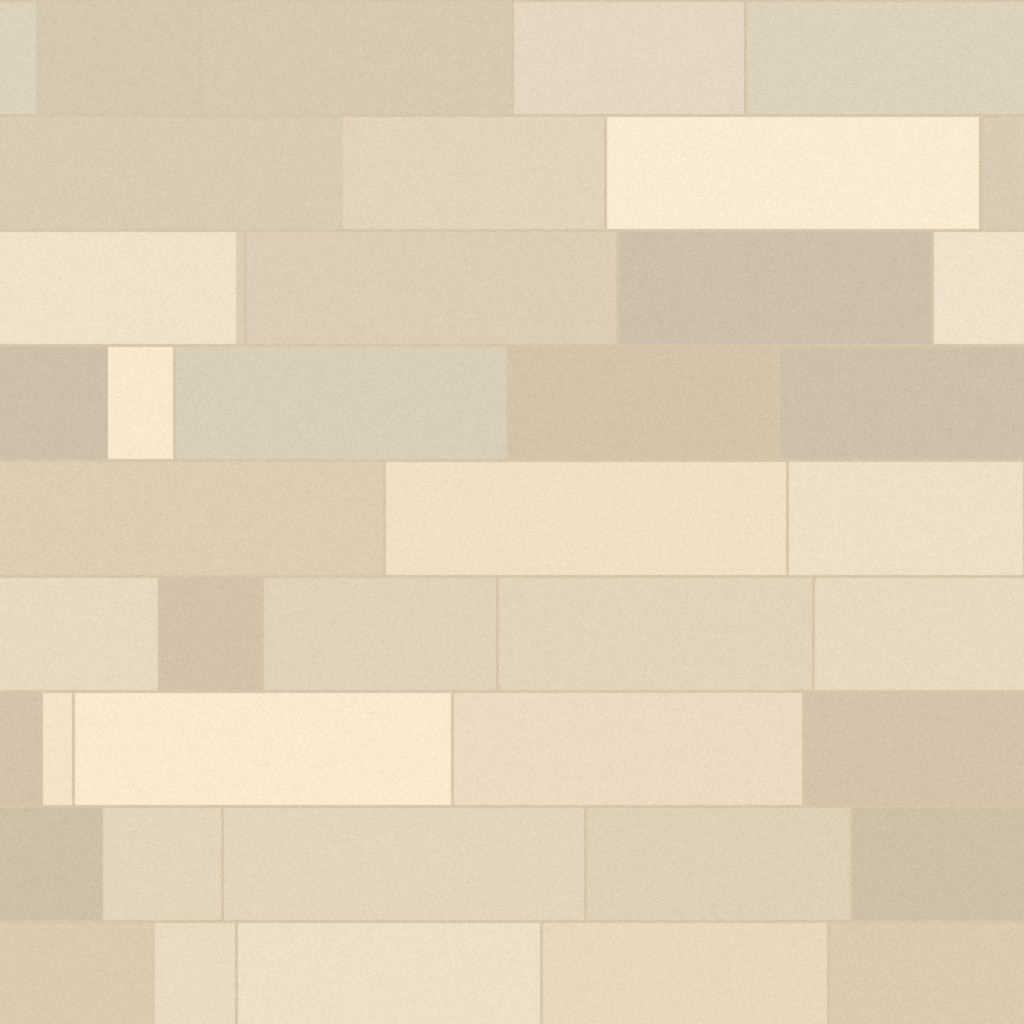
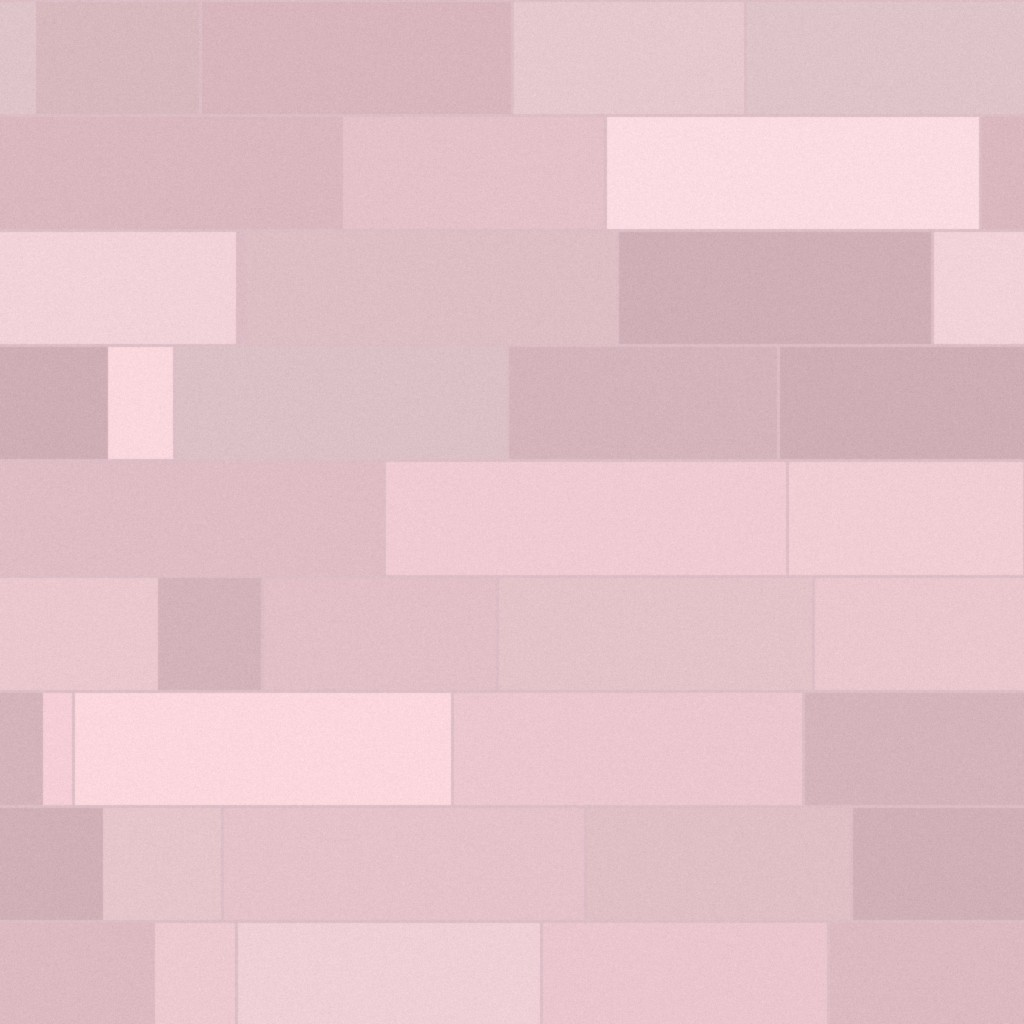
Cinderella Castle: rework to the reference model the user chose
Following the free3d preview renders (looked at only): light grey stone base,
pink upper castle, bright blue slate, gold; the crown of gothic gables round
the palace; rounded corbel turrets, red doors and a quatrefoil at the back;
the rear bridge with pierced balustrades and gold lamps; the front stage with
pilasters, dark double doors, gilded arches and pennant poles; the rocky
island in the moat.

diff --git a/ds_tdl_cinderella.py b/ds_tdl_cinderella.py
@@ -15,6 +15,15 @@ Sources (looked at only; nothing copied into the repository):
   * OSM way 217727348 (building, height 51): the footprint about 36 x 37 m with round tower lobes, the gate notch on
     the south side at (-388.6, 578.2).
 
+  * THE REFERENCE (the user, 2026-09-25: "this image is correct"): the preview renders of the free3d model
+    "Cinderella Castle" by 3d_molier International (https://free3d.com/ja/3d-model/cinderella-castle-6339.html,
+    31 previews; paid model, not downloaded, previews looked at only). Taken from it: the colours (light grey
+    stone base, pale pink upper castle, bright blue slate, gold spires and finials), the crown of tall gothic gables
+    with pinnacles round the palace, the rounded corbel turrets along the top of the stone base, the red arched doors
+    and quatrefoil window at the back, the rear bridge with its pierced balustrade and gold lamps, the front stage
+    (retaining wall with pilasters and dark double doors, gold arches, tall gold banner poles with blue and gold
+    pennants), the island edged with rocks and grass in the moat.
+
 Frame: local metres, origin = the middle of the gate at the ground on the south front; +X east, +Y north (through
 the castle). No rotation from the DisneySea frame. Ground 0 (DEM added on export).
 
@@ -73,16 +82,16 @@ def make_textures():
         a = (a + rng.normal(0, rough, (N, N, 1))).clip(0, 255).astype(np.uint8)
         Image.fromarray(a).filter(ImageFilter.GaussianBlur(0.6)).save(TEX_DIR / fn, quality=90)
 
-    ashlar("stone.jpg", 0.5, (0.6, 1.3), [(138, 118, 98), (128, 110, 92), (148, 128, 106), (120, 104, 88), (160, 140, 118),
-                                         (132, 114, 96), (112, 98, 84)], (176, 162, 144), 7.0, 3)
-    ashlar("cream.jpg", 0.45, (0.9, 1.6), [(236, 222, 196), (230, 214, 186), (240, 228, 204), (226, 212, 188)], (214, 198, 170), 4.0, 4)
+    ashlar("stone.jpg", 0.5, (0.6, 1.3), [(178, 180, 186), (166, 168, 176), (190, 192, 198), (156, 158, 166), (200, 200, 206),
+                                         (170, 172, 178), (148, 150, 158)], (214, 214, 218), 6.0, 3)
+    ashlar("cream.jpg", 0.45, (0.9, 1.6), [(238, 204, 210), (232, 196, 204), (242, 212, 218), (228, 192, 200)], (222, 190, 198), 3.0, 4)
     im = Image.new("RGB", (N, N), (30, 44, 74)); d = ImageDraw.Draw(im)
     tw, th = 0.22 * px, 0.17 * px
     for r in range(int(N / th) + 2):
         off = (r % 2) * tw / 2
         for c in range(int(N / tw) + 2):
             x0 = c * tw - off; y0 = r * th
-            base = [(72, 98, 150), (64, 90, 140), (80, 108, 160), (58, 82, 130), (88, 116, 164)][g.randrange(5)]
+            base = [(46, 104, 170), (40, 94, 160), (54, 114, 180), (36, 86, 150), (62, 122, 186)][g.randrange(5)]
             d.rounded_rectangle([x0 + 1, y0 + 1, x0 + tw - 1, y0 + th * 1.35], radius=tw * 0.45, fill=base)
     im.save(TEX_DIR / "slate.jpg", quality=90)
 
@@ -104,12 +113,12 @@ def materials():
     P = lambda n, c, r=0.6, **kw: _principled(n, c, r, **kw)[0]
     if not (TEX_DIR / "stone.jpg").exists():
         make_textures()
-    M["stone"] = image_material("cc_stone", "stone.jpg", 0.9, 0.5, (0.36, 0.31, 0.26))
-    M["cream"] = image_material("cc_cream", "cream.jpg", 0.55, 0.15, (0.85, 0.79, 0.68))
+    M["stone"] = image_material("cc_stone", "stone.jpg", 0.85, 0.5, (0.62, 0.63, 0.66))    # light grey (reference)
+    M["cream"] = image_material("cc_cream", "cream.jpg", 0.55, 0.15, (0.88, 0.74, 0.77))    # pale pink upper castle
     M["lilac"] = M["cream"]                                 # (the shared helpers call the wall material "lilac")
-    M["roof"] = image_material("cc_slate", "slate.jpg", 0.45, 0.4, (0.22, 0.31, 0.50))
+    M["roof"] = image_material("cc_slate", "slate.jpg", 0.4, 0.4, (0.14, 0.36, 0.66))
     mat, nt, b = _principled("cc_trim", (0.93, 0.88, 0.78), 0.5); _mottle(nt, b, (0.93, 0.88, 0.78), 6, 0.93, 0.03); M["trim"] = mat
-    M["gold"] = P("cc_gold", (0.90, 0.70, 0.30), 0.22, Metallic=1.0)
+    M["gold"] = P("cc_gold", (1.0, 0.76, 0.28), 0.18, Metallic=1.0)
     M["glass"] = P("cc_glass", (0.10, 0.16, 0.30), 0.06, Coat_Weight=1.0)
     M["stained"] = P("cc_stained", (0.20, 0.30, 0.55), 0.08, Emission_Color=(0.4, 0.6, 1.0, 1), Emission_Strength=0.12)
     M["iron"] = P("cc_iron", (0.05, 0.05, 0.06), 0.4, Metallic=0.7)
@@ -120,6 +129,11 @@ def materials():
     M["paving"] = ST.mat_tiles("cc_paving", (0.66, 0.56, 0.50), (0.60, 0.50, 0.46), 0.6, (0.48, 0.42, 0.38))
     M["red"] = P("cc_red", (0.62, 0.08, 0.10), 0.6)
     M["statue"] = P("cc_statue", (0.85, 0.82, 0.76), 0.6)
+    M["door_red"] = P("cc_door_red", (0.45, 0.06, 0.08), 0.6)
+    M["door_dark"] = P("cc_door_dark", (0.16, 0.20, 0.22), 0.5, Metallic=0.4)
+    M["banner_a"] = P("cc_banner_a", (0.05, 0.05, 0.40), 0.7)
+    mat, nt, b = _principled("cc_rock", (0.46, 0.44, 0.40), 0.9); _mottle(nt, b, (0.46, 0.44, 0.40), 1.4, 0.6, 0.5); M["rock"] = mat
+    M["grass"] = P("cc_grass", (0.18, 0.32, 0.12), 0.9)
     return M
 
 
@@ -203,6 +217,74 @@ def gable_roof(P, x0, x1, y0, y1, ze, ridge, mat="roof", along="y", thick=0.2, e
         bm.faces.new((v[0], v[1], v[2], v[3])); bm.faces.new((v[5], v[4], v[3], v[2]))
 
 
+def crown(P, M, L, z0, bay=2.5, h=5.4, gable=3.2, glass="stained"):
+    """The crown of tall gothic gables (reference): along a face of length L, one tall tracery window per bay under a
+    steep crocketed gable, a slim pinnacle between the bays rising above the gables."""
+    n = max(1, int(L / bay)); b = L / n
+    for k in range(n):
+        u = (k + 0.5) * b
+        BC.window(P, M, u, z0 + 0.6, b * 0.5, h, "pointed", 0.12, glass=glass)
+        cube(P, "trim", M, u - 0.03, u + 0.03, 0.0, 0.08, z0 + 0.6, z0 + h - b * 0.3)        # mullion
+        top = z0 + h + 0.4
+        poly_prism(P, "trim", M, [(u - b / 2 + 0.05, top - 0.3), (u + b / 2 - 0.05, top - 0.3), (u, top + gable)], -0.1, 0.25)
+        poly_prism(P, "cream", M, [(u - b / 2 + 0.35, top - 0.1), (u + b / 2 - 0.35, top - 0.1), (u, top + gable - 0.5)], 0.25, 0.3)
+        lathe(P, "trim", [(0.5, 0), (0.62, 0), (0.62, 0.08), (0.5, 0.08)], 12, M @ T(u, 0.3, top + gable * 0.35) @ R(-math.pi / 2, "X"))
+        pinnacle(P, *(M @ Vector((u, 0.1, top + gable))).xy, top + gable, 0.9, 0.08, "gold")
+        for j in range(4):                                                      # crockets up both edges
+            t = (j + 0.5) / 4
+            for sg in (-1, 1):
+                q = M @ Vector((u + sg * (b / 2 - 0.1) * (1 - t), 0.2, top - 0.3 + (gable + 0.3) * t))
+                lathe(P, "trim", [(0, 0), (0.07, 0), (0, 0.18)], 4, T(q.x, q.y, q.z))
+    for k in range(n + 1):
+        q = M @ Vector((k * b, 0.15, 0.0))
+        cube(P, "trim", Matrix.Translation((q.x, q.y, 0)), -0.14, 0.14, -0.14, 0.14, z0, z0 + h + 1.0)
+        pinnacle(P, q.x, q.y, z0 + h + 1.0, gable + 1.4, 0.16)
+
+
+def corbel_turret(P, x, y, z, r=0.85, h=1.6):
+    """Rounded corbel turret on the wall top (reference): a ribbed cone of corbels, a short drum, a moulded cap."""
+    prof = [(0.0, z - 1.9), (0.12, z - 1.9)]
+    for k in range(1, 7):
+        t = k / 6
+        prof.append((0.12 + (r - 0.12) * math.sin(t * math.pi / 2), z - 1.9 + 1.9 * t))
+    prof += [(r, z + h), (r + 0.12, z + h), (r + 0.12, z + h + 0.25), (0.0, z + h + 0.25)]
+    lathe(P, "trim", prof, 20, T(x, y, 0))
+    for k in range(10):                                                         # the ribs of the corbel cone
+        t = 2 * math.pi * k / 10
+        cube(P, "trim", T(x + (r * 0.6) * math.cos(t), y + (r * 0.6) * math.sin(t), 0), -0.05, 0.05, -0.05, 0.05, z - 1.2, z)
+
+
+def pierced_balustrade(P, M, u0, u1, z, h=1.0, step=0.9):
+    """The castle's balustrade (reference): a solid plinth, a row of round openings (rings), a moulded rail."""
+    cube(P, "trim", M, u0, u1, -0.15, 0.15, z, z + 0.2)
+    cube(P, "trim", M, u0, u1, -0.2, 0.2, z + h - 0.15, z + h)
+    k = u0 + step / 2
+    while k < u1 - 0.2:
+        import train_blender as TBL
+        TBL._torus(P["trim"], (h - 0.4) / 2, 0.05, M @ T(k, 0.0, z + 0.2 + (h - 0.35) / 2) @ R(math.pi / 2, "X"), 12, 4)
+        k += step
+    for k in range(int((u1 - u0) / step) + 1):
+        cube(P, "trim", M, u0 + k * step - 0.06, u0 + k * step + 0.06, -0.12, 0.12, z + 0.2, z + h - 0.15)
+
+
+def gold_lamp(P, x, y, z, s=1.0):
+    """Gold urn lamp on a pedestal (reference): pedestal, scrolled stem, a lantern with a crown top."""
+    lathe(P, "trim", [(0, z), (0.35 * s, z), (0.35 * s, z + 0.9 * s), (0.25 * s, z + 1.0 * s), (0, z + 1.0 * s)], 8, T(x, y, 0))
+    zz = z + 1.0 * s
+    lathe(P, "gold", [(0, zz), (0.2 * s, zz), (0.08 * s, zz + 0.4 * s), (0.25 * s, zz + 0.7 * s), (0.28 * s, zz + 1.1 * s),
+                      (0.1 * s, zz + 1.3 * s), (0.18 * s, zz + 1.45 * s), (0, zz + 1.6 * s)], 8, T(x, y, 0))
+
+
+def pennant_pole(P, x, y, z, h=9.0, facing=0.0, mat="banner_a"):
+    """Tall gold pole with a ball finial, a cross arm and a blue pennant with a gold border (reference)."""
+    lathe(P, "gold", [(0, z), (0.14, z), (0.1, z + 0.4), (0.07, z + h), (0.2, z + h + 0.1), (0.2, z + h + 0.35), (0, z + h + 0.45)], 10, T(x, y, 0))
+    M = Matrix.Translation((x, y, 0)) @ Matrix.Rotation(facing, 4, "Z")
+    cube(P, "gold", M, -1.1, 1.1, -0.04, 0.04, z + h - 0.7, z + h - 0.6)
+    pts = [(-1.0, z + h - 0.7), (1.0, z + h - 0.7), (0.0, z + h - 4.6)]
+    poly_prism(P, "gold", M, pts, -0.03, 0.03)
+    poly_prism(P, mat, M, [(-0.82, z + h - 0.8), (0.82, z + h - 0.8), (0.0, z + h - 4.2)], -0.05, 0.05)
+
+
 # ================================================================ the castle, bottom to top
 def build_base(P):
     """The stone lower castle: two masses either side of the through passage, the passage vault, the rear arch."""
@@ -235,11 +317,29 @@ def build_base(P):
     # the rear (north): the big gothic arch of the passage, rose window, the Fairy Tale Hall stair on the east side
     Mr = face(0, 33.5, math.pi)
     poly_prism(P, "trim", Mr, [(x, z) for x, z in arch_ring(0.0, 5.5, 5.4, 0.6)], -0.35, 0.05)
-    lathe(P, "trim", [(0.9, 0), (1.2, 0), (1.2, 0.2), (0.9, 0.2)], 24, Mr @ T(-6.5, -0.1, 7.2) @ R(math.pi / 2, "X"))
-    lathe(P, "glass", [(0, 0), (0.9, 0), (0.9, 0.05), (0, 0.05)], 24, Mr @ T(-6.5, -0.05, 7.2) @ R(math.pi / 2, "X"))
-    for u in (-9.0, 6.0, 9.5):                                                  # the smaller arches of the rear arcade
-        poly_prism(P, "trim", Mr, [(x, z) for x, z in arch_ring(u, 2.4, 3.0, 0.35)], -0.3, 0.05)
-        poly_prism(P, "glass", Mr, [(u - 1.2, 0.0), (u + 1.2, 0.0)] + pointed(u - 1.2, u + 1.2, 3.0)[1:-1], 0.04, 0.05)
+    lathe(P, "trim", [(1.0, 0), (1.35, 0), (1.35, 0.25), (1.0, 0.25)], 28, Mr @ T(-5.2, -0.1, 6.6) @ R(math.pi / 2, "X"))
+    for (du, dz) in ((0, 0.42), (0, -0.42), (0.42, 0), (-0.42, 0)):              # the quatrefoil window
+        lathe(P, "glass", [(0, 0), (0.42, 0), (0.42, 0.05), (0, 0.05)], 16, Mr @ T(-5.2 + du, -0.05, 6.6 + dz) @ R(math.pi / 2, "X"))
+    for u in (-9.8, -7.4, 6.0, 9.0):                                            # the red arched doors of the rear arcade
+        poly_prism(P, "trim", Mr, [(x, z) for x, z in arch_ring(u, 1.5, 2.3, 0.3)], -0.3, 0.05)
+        poly_prism(P, "door_red", Mr, [(u - 0.75, 0.0), (u + 0.75, 0.0)] + pointed(u - 0.75, u + 0.75, 2.3)[1:-1], 0.02, 0.06)
+    for u in (-12.0, -7.0, -2.8, 2.8, 7.0, 12.0, 16.5):                          # rounded corbel turrets along the wall top
+        corbel_turret(P, u, 33.7, Hb - 0.2, 0.85, 1.4)
+    for x_ in (-13.3, 18.3):
+        for v in (6.0, 12.0, 18.0, 24.0):
+            corbel_turret(P, x_, v, Hb - 0.2, 0.75, 1.3)
+    # the rear bridge over the moat (reference): deck on arches, pierced balustrades, gold lamps on pedestals
+    cube(P, "stone", I, -3.6, 3.6, 33.5, 56.0, -1.6, -0.05)
+    cube(P, "paving", I, -3.4, 3.4, 33.5, 56.0, -0.05, 0.02)
+    for k in range(3):
+        y0 = 36.0 + k * 6.5
+        pts, _ = seg_arc(y0 + 2.5, -3.0, 5.0, 1.4, 12)
+        poly_prism(P, "stone", face(-3.6, 0, math.pi / 2), [(-(y0 + 5.0), -1.6), (-y0, -1.6), (-y0, -3.0)] + [(-u_, z_) for u_, z_ in pts[::-1]] + [(-(y0 + 5.0), -3.0)], 0.0, 7.2)
+    for sx in (-1, 1):
+        Mb = face(sx * 3.5, 56.0 if sx < 0 else 33.5, math.pi / 2 if sx > 0 else -math.pi / 2)
+        pierced_balustrade(P, Mb, 0.0, 22.5, 0.0, 1.0, 0.9)
+        for v in (35.0, 41.5, 48.0, 54.5):
+            gold_lamp(P, sx * 3.5, v, 0.0, 1.0)
     # outside stair up the east side to the hall entrance (about 7 m), cream balustrade
     for k in range(24):
         z = 0.3 * (k + 1)
@@ -283,12 +383,16 @@ def build_palace(P):
     # the palace block (to 25.8 m): u -3.9 .. 8.4, v 4 .. 26, cream, a row of tracery windows on all faces
     cube(P, "cream", I, -3.9, 8.4, 4.0, 26.0, zb, 25.8)
     cube(P, "trim", I, -4.1, 8.6, 3.8, 26.2, 25.4, 25.8)
-    for (M, L) in BC.side_frames(-3.9, 8.4, 4.0, 26.0):
-        n = max(1, int(L / 2.6))
-        for k in range(n):
-            gothic_window(P, M, (k + 0.5) * L / n, zb + 2.0, 1.1, 4.2)
-            BC.window(P, M, (k + 0.5) * L / n, zb + 8.8, 0.7, 1.8, "pointed", 0.1)
-        balustrade(P, M @ Matrix.Translation((0, 0.3, 0)), 0.0, L, zb + 0.2, 0.8)
+    for i, (M, L) in enumerate(BC.side_frames(-3.9, 8.4, 4.0, 26.0)):
+        if i in (1, 3):                                                          # the long sides: the crown of gables
+            crown(P, M, L, zb + 2.0, 2.6, 5.8, 3.2)
+        else:
+            n = max(1, int(L / 2.6))
+            for k in range(n):
+                gothic_window(P, M, (k + 0.5) * L / n, zb + 2.0, 1.1, 4.2)
+        for k in range(max(1, int(L / 2.6))):
+            BC.window(P, M, (k + 0.5) * L / max(1, int(L / 2.6)), zb + 10.4, 0.6, 1.6, "pointed", 0.1)
+        pierced_balustrade(P, M @ Matrix.Translation((0, 0.3, 0)), 0.0, L, zb + 0.2, 0.9)
     BC.hip_roof(P, -4.1, 8.6, 3.8, 26.2, 25.8, 4.2)
     # the clock gable over the frontispiece: cream tracery front, the clock (15.2 m), steep blue gable roof (top 20.9)
     Mf = face(0, 2.0, 0)
@@ -325,16 +429,17 @@ def build_palace(P):
     # windows with gables, a slate roof with dormers
     cube(P, "cream", I, -9.5, 12.5, 26.0, 33.3, zb, 21.5)
     Mr = face(12.5, 33.3, math.pi)
-    for k in range(7):
-        gothic_window(P, Mr, 1.6 + k * 3.1, zb + 1.6, 1.3, 4.6)
+    crown(P, Mr, 22.0, zb + 1.0, 2.6, 6.0, 3.4)
+    crown(P, face(-9.5, 33.3, -math.pi / 2), 7.3, zb + 1.0, 2.6, 6.0, 3.4)
+    crown(P, face(12.5, 26.0, math.pi / 2), 7.3, zb + 1.0, 2.6, 6.0, 3.4)
     for k in range(12):                                                         # the rounded corbels under it
         u_ = -9.2 + k * 1.95
         lathe(P, "cream", [(0, 0), (0.25, 0), (0.55, 0.6), (0.6, 1.1), (0, 1.1)], 12, T(u_, 33.6, zb - 1.3))
     balustrade(P, face(-9.5, 33.9, 0), 0.0, 22.0, zb, 0.8)
     cube(P, "cream", I, -9.6, 12.6, 33.3, 34.0, zb - 0.2, zb)
     BC.hip_roof(P, -9.7, 12.7, 25.8, 33.5, 21.5, 4.0)
-    for u_ in (-6.0, -1.0, 7.0):
-        gothic_window(P, face(0, 33.1, math.pi) @ Matrix.Translation((0, 0, 0)), -u_, 21.6, 0.8, 2.2)
+    for k in range(4):                                                          # small blue cones behind the gables
+        cone_roof(P, -7.0 + k * 6.0, 29.5, 21.5, 1.3, 5.5, 16)
     # corner turrets of the palace (bartizans) and pinnacles along the eaves
     for (x_, y_) in ((-3.9, 4.0), (8.4, 4.0), (-3.9, 26.0), (8.4, 26.0)):
         bartizan(P, x_, y_, 23.2, 0.7, 2.4, 3.0)
@@ -375,24 +480,58 @@ def build_palace(P):
 
 
 def build_forecourt(P):
-    """The forecourt stage in front of the gate (Sketchfab model, photos): a raised paved terrace with a balustrade,
-    steps down to the plaza, banner poles; the moat round the castle base."""
+    """The front stage and the island (reference): a raised stage before the gate, its stone retaining wall with cream
+    pilasters and two dark double doors, pierced balustrades with gold lamps, a stair down in the middle, two gilded
+    gothic arches over curving stairs either side, tall gold poles with blue and gold pennants, a red rosette on the
+    paving; the whole castle stands on an island edged with rocks and grass in the moat."""
     I = Matrix.Identity(4)
-    cube(P, "stone", I, -16.0, 20.0, -13.0, 1.0, -0.8, 1.0)
-    cube(P, "paving", I, -15.8, 19.8, -12.8, 1.0, 1.0, 1.05)
-    lathe(P, "red", [(0, 1.05), (3.2, 1.05), (3.2, 1.07), (0, 1.07)], 40, T(0.0, -6.5, 0))          # the round motif on the stage
-    lathe(P, "paving", [(0, 1.07), (2.4, 1.07), (2.4, 1.08), (0, 1.08)], 40, T(0.0, -6.5, 0))
-    for (x0, x1, y0, y1) in ((-16.0, -4.0, -13.2, -12.8), (4.0, 20.0, -13.2, -12.8), (-16.2, -15.8, -13.0, 0.5), (19.8, 20.2, -13.0, 0.5)):
-        if y1 - y0 < 1:
-            balustrade(P, face(x0, -13.0, 0), 0.0, x1 - x0, 1.05, 0.9)
-        else:
-            balustrade(P, face(x0 + 0.2, 0.5, -math.pi / 2), 0.0, 13.5, 1.05, 0.9)
-    for k in range(5):                                                          # the steps down in the middle
-        cube(P, "trim", I, -4.0, 4.0, -13.0 - (k + 1) * 0.35, -13.0 - k * 0.35, -0.8, 1.0 - (k + 1) * 0.2)
-    for x_ in (-14.0, -9.0, 9.0, 14.0, 18.5):                                   # banner poles
-        lathe(P, "gold", [(0, 1.05), (0.07, 1.05), (0.05, 8.0), (0.12, 8.2), (0, 8.5)], 8, T(x_, -11.8, 0))
-        cube(P, "banner_a" if x_ < 0 else "banner_b", I, x_ + 0.05, x_ + 0.08, -11.8 - 0.55, -11.8 + 0.55, 4.0, 7.6)
-    cube(P, "water", I, -30.0, 34.0, -2.0, 48.0, -1.3, -1.25)                  # the moat (under the forecourt and the base)
+    cube(P, "stone", I, -18.0, 22.0, -14.0, 1.0, -1.3, 1.0)
+    cube(P, "paving", I, -17.8, 21.8, -13.8, 1.0, 1.0, 1.05)
+    lathe(P, "red", [(0, 1.05), (3.4, 1.05), (3.4, 1.07), (0, 1.07)], 48, T(0.0, -6.5, 0))
+    lathe(P, "paving", [(0, 1.07), (2.6, 1.07), (2.6, 1.08), (0, 1.08)], 48, T(0.0, -6.5, 0))
+    for k in range(8):                                                          # the rosette's red points
+        t = 2 * math.pi * k / 8
+        poly_prism(P, "red", Matrix.Translation((0, -6.5, 0)) @ Matrix.Rotation(t, 4, "Z"),
+                   [(-0.5, 3.4), (0.5, 3.4), (0.0, 4.6)], 1.05, 1.07) if False else None
+    Mf = face(-18.0, -14.0, 0)                                                  # the retaining wall's front face
+    for u in (0.5, 8.0, 14.0, 26.0, 32.0, 39.5):                                 # cream pilasters
+        cube(P, "trim", Mf, u - 0.45, u + 0.45, -0.2, 0.05, -1.3, 1.1)
+    for u in (11.0, 29.0):                                                      # the dark double doors
+        cube(P, "door_dark", Mf, u - 1.3, u + 1.3, -0.08, 0.02, -1.3, 0.85)
+        cube(P, "trim", Mf, u - 1.5, u + 1.5, -0.15, 0.05, 0.85, 1.0)
+        cube(P, "iron", Mf, u - 0.03, u + 0.03, -0.1, -0.08, -1.3, 0.85)
+    for (u0, u1) in ((0.0, 13.8), (22.2, 40.0)):
+        pierced_balustrade(P, Mf @ Matrix.Translation((0, 0.3, 0)), u0, u1, 1.05, 1.0, 0.9)
+    for sx, x0 in ((-1, -18.0), (1, 22.0)):
+        pierced_balustrade(P, face(x0, 1.0 if sx < 0 else -14.0, -math.pi / 2 if sx < 0 else math.pi / 2), 0.0, 15.0, 1.05, 1.0, 0.9)
+    for (x_, y_) in ((-18.0, -14.0), (-4.2, -14.0), (4.2, -14.0), (22.0, -14.0), (-18.0, -7.0), (22.0, -7.0), (-18.0, 0.5), (22.0, 0.5)):
+        gold_lamp(P, x_, y_, 1.05, 1.0)
+    for k in range(7):                                                          # the stair down in the middle
+        cube(P, "trim", I, -4.0, 4.0, -14.0 - (k + 1) * 0.35, -14.0 - k * 0.35, -1.3, 1.0 - (k + 1) * 0.33)
+    for sx in (-1, 1):                                                          # gilded gothic arches over curving stairs
+        cx = sx * 8.5
+        for (dx, h_) in ((-1.6, 6.5), (1.6, 6.5)):
+            lathe(P, "trim", [(0, 1.05), (0.22, 1.05), (0.18, 1.3), (0.15, 1.05 + h_), (0, 1.05 + h_)], 10, T(cx + dx, -4.0, 0))
+        pts = pointed(cx - 1.6, cx + 1.6, 1.05 + 6.5)
+        P_ = [(x, -4.0, z) for x, z in pts]
+        ST.curve_obj(f"CC_arch_{sx}", P_, "gold", 0.1)
+        for k in range(10):                                                     # the curving stair up to a small landing
+            a_ = math.radians(-90 + sx * k * 12)
+            r_ = 3.0
+            cube(P, "trim", T(cx + sx * r_ * 0.3 * math.cos(a_), -4.0 + r_ * math.sin(a_) * 0.5, 0), -0.8, 0.8, -0.35, 0.35, 1.05, 1.05 + 0.2 * (k + 1))
+    for x_, fac in ((-15.5, 0.0), (-11.0, 0.0), (-6.0, 0.0), (6.0, 0.0), (11.0, 0.0), (15.5, 0.0), (20.0, 0.0)):
+        pennant_pole(P, x_, -12.8, 1.05, 9.5, fac)
+    cube(P, "water", I, -40.0, 44.0, -26.0, 62.0, -1.3, -1.25)                  # the moat
+    # the island's edge: boulders and grass tufts round the stage and the castle base
+    g = random.Random(21)
+    edge = [(-19.0 + 41.0 * t, -15.2) for t in [i / 14 for i in range(15)]] + \
+           [(-19.2, -14.0 + 48.0 * t) for t in [i / 16 for i in range(17)]] + [(23.2, -14.0 + 48.0 * t) for t in [i / 16 for i in range(17)]]
+    for i, (x_, y_) in enumerate(edge):
+        if g.random() < 0.65:
+            BC.boulder_cluster(P, x_ + g.uniform(-0.6, 0.6), y_ + g.uniform(-0.6, 0.6), g.uniform(1.2, 2.2), g.uniform(0.6, 1.4) - 1.3, i + 200)
+        if g.random() < 0.5:
+            cube(P, "grass", I, x_ - 1.2, x_ + 1.2, y_ - 0.8, y_ + 0.8, -1.3, -1.05)
+    cube(P, "grass", I, -19.5, 23.5, 1.0, 34.0, -1.3, -0.05)                    # the island ground round the base
 
 
 def build(context=True):
@@ -429,9 +568,11 @@ def build(context=True):
 
 
 CAMS = {
-    "front": ((2.5, -150.0, 2.0), (2.5, 10.0, 24.0), 60),         # from across the plaza, long lens (the photos' view)
+    "front": ((2.5, -150.0, 2.0), (2.5, 10.0, 24.0), 60),
+    "stage": ((2.0, -48.0, 4.0), (2.0, -2.0, 9.0), 30),          # the reference's front view of the stage         # from across the plaza, long lens (the photos' view)
     "front_close": ((0.0, -40.0, 1.7), (0.0, 5.0, 15.0), 26),
-    "rear": ((-18.0, 58.0, 1.7), (2.0, 20.0, 18.0), 22),          # the Fantasyland side: the gothic arch, the stair
+    "rear": ((-18.0, 58.0, 1.7), (2.0, 20.0, 18.0), 22),
+    "bridge": ((0.0, 92.0, 2.5), (0.0, 20.0, 16.0), 32),         # the reference's bridge view          # the Fantasyland side: the gothic arch, the stair
     "side": ((55.0, 5.0, 3.0), (2.0, 15.0, 20.0), 26),
     "aerial": ((60.0, -60.0, 70.0), (2.0, 12.0, 15.0), 30),
     "clock": ((0.0, -10.0, 13.0), (0.0, 1.0, 17.0), 35),
